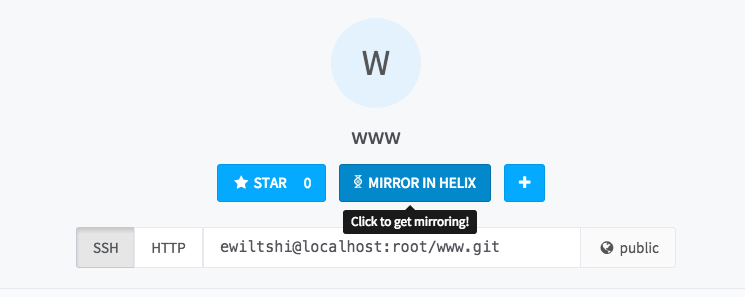
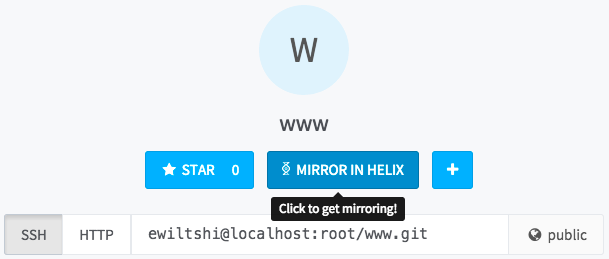
Integrating feedback and cropping screenshots.

Changed region(s): [[0.0, 0.4324, 0.78, 0.9884], [0.8112, 0.8031, 0.9672, 0.9266], [0.468, 0.1544, 0.5304, 0.2471]]

diff --git a/perforce_swarm/doc-ce/workflow/importing/import_from_gitfusion.md b/perforce_swarm/doc-ce/workflow/importing/import_from_gitfusion.md
@@ -25,9 +25,9 @@ GitSwarm project.
 * Install GitSwarm and Git Fusion on separate machines to improve
   performance and scalability. GitSwarm 2015.3+ installs with a local
   Helix Versioning Engine and a local Git Fusion server, all pre-configured
-  to allow you to easily try out the system. In production, we recommend disabling
-  the local Git Fusion, and using an external one. [Check out the docs on the
-  auto-provisioned Git Fusion](../../install/auto_provision.md))
+  to allow you to easily try out the system. In production, we recommend
+  disabling the local Git Fusion, and using an external one. [Check out the
+  docs on the auto-provisioned Git Fusion](../../install/auto_provision.md))
 
 * Use SSH or HTTPS connections to secure the mirroring connections.
   SSH connections are faster and more secure. We recommend against using
@@ -53,9 +53,9 @@ gitswarm['git-fusion']['development']['url']  = 'http://dev-gitfusion.host/'
 gitswarm['git-fusion']['production']['url']   = 'http://prod-gitfusion.host/'
 ```
 
-In the above example, the user `global-user` will be used to log in to the `development`
-and `production` Git Fusion servers. The user for the `local` Git Fusion server
-will remain as `gitswarm`.
+In the above example, the user `global-user` will be used to log in to the
+`development` and `production` Git Fusion servers. The user for the `local` Git
+Fusion server will remain as `gitswarm`.
 
 Note: Only `user`, `password`, `git_config_params`, `perforce['user']`,
 `perforce['password']` and `auto_create` settings can have global defaults.
@@ -79,8 +79,8 @@ gitswarm['git-fusion']['my_entry']['url']      = 'http://gitswarm@gitfusion.host
 gitswarm['git-fusion']['my_entry']['password'] = '<password for "gitswarm" user>'
     ```
 
-    Note: The user (e.g. `gitswarm`) needs to exist in the Helix Versioning Engine
-    that the Git Fusion service uses, and must have permission to access
+    Note: The user (e.g. `gitswarm`) needs to exist in the Helix Versioning
+    Engine that the Git Fusion service uses, and must have permission to access
     the repositories you wish to import from.
 
     Note: `my_entry` is an example key that is used to configure the connection
@@ -103,7 +103,8 @@ gitswarm['git-fusion']['other']['password']     = '<password for "other-user" us
 gitswarm['git-fusion']['my_entry']['git_config_params'] = 'http.sslVerify=false'
     ```
 
-    Note: the key 'my_entry' can be replaced with a unique value of your choosing.
+    Note: the key 'my_entry' can be replaced with a unique value of your
+    choosing.
 
 1.  **Make the configuration change active:**
 
@@ -194,6 +195,7 @@ Note: The `my_entry` key is used to assign config values to a particular
 git-fusion instance. You can include more configured servers under other
 keys.
 
+#### Auto-create Configuration
 GitSwarm generates a Git Fusion configuration and unique depot path
 for each new project that has convention-based mirroring enabled. It
 constructs these by substituting the GitSwarm project's namespace and
@@ -216,6 +218,7 @@ use the convention-based repository feature. GitSwarm does
 ### New GitSwarm Project with Convention-based Mirroring
 
 1.  Sign in to your GitSwarm instance and go to your dashboard.
+
 1.  Click "New Project".
 
 1.  Click the "Git Fusion Server" drop-down menu to select an available
@@ -242,8 +245,9 @@ use the convention-based repository feature. GitSwarm does
 1.  Click the "Helix Git Fusion Server" drop-down menu to select an available
     Git Fusion Server to import from.
 
-1.  Click the "Repository" drop-down menu under the "Mirror an existing repository"
-    option and select an available Git Fusion repository to import.
+1.  Click the "Repository" drop-down menu under the "Mirror an
+    existing repository" option and select an available Git Fusion repository to
+    import.
 
     ![Select repository to import](gitfusion_importer/choose_repo.png)
 
@@ -259,83 +263,103 @@ use the convention-based repository feature. GitSwarm does
 
 #### Requirements
 
-* You must have at least one Git Fusion entry configured for convention-based mirroring.
+* You must have at least one Git Fusion entry configured for convention-based
+  mirroring.
   See [this section](#convention-based-repository-configuration) for details.
 
-* Your GitSwarm user account must either be an admin account, or you must have master-level permissions for the project
-  on which you are attempting to enable mirroring.
+* Your GitSwarm user account must either be an admin account, or you must have
+  at least master-level permissions for the project on which you are attempting
+  to enable mirroring.
 
 * The project cannot already be mirrored in Git Fusion.
 
-* There must not be any content in Helix where the to-be mirrored project's will be stored. GitSwarm will check for this
-  before attempting to mirror the project.
+* There must not be any content in Helix where the to-be mirrored project's
+  files are to be stored. GitSwarm checks for this before attempting to mirror
+  the project.
 
-* There must not be a Git Fusion configuration file (p4gf_config) for the current namespace/project path combination.
-  GitSwarm will check for this before attempting to mirror the project.
+* There must not be a Git Fusion configuration file (```p4gf_config```) for the
+  current namespace/project path combination. GitSwarm checks for this
+  before attempting to mirror the project.
 
 #### How to Enable Mirroring on an Existing GitSwarm Project
 
-1.  Sign in to your GitSwarm instance as an admin or with master rights to the project for which you want to enable
-    mirroring.
+1.  **Sign in to your GitSwarm instance**
 
-1.  From the Dashboard, click "Your Projects" or "Explore Projects" and then click on the project you wish to mirror.
+    You must be an admin, or have at least master rights to the project for
+    which you want to enable mirroring.
 
-1.  Click the "Mirror in Helix" button on the project details page. If the button is greyed out, mousing over it
-    will give you a hint as to what is wrong and how to fix it.
+1.  **From the Dashboard, click "Your Projects" or "Explore Projects"**
+
+1.  **Click on the project you wish to mirror**
+
+1.  **Click the "Mirror in Helix" button on the project details page**
+
+    If the button is greyed out, mousing over it gives a hint as to what is
+    wrong and how to fix it.
 
     ![Mirror in Helix button](gitfusion_importer/mirror_in_helix_button.png)
 
-1.  On the "Mirror in Helix" page, you will need to select the Git Fusion server under which you would like to mirror
-    your project. All configured Git Fusion servers are selectable, but only servers that support convention-based
-    mirroring will show the "Launch Mirroring" button.
+1.  **Select the Git Fusion server to which you wish to mirror your project**
+
+    All configured Git Fusion servers are selectable, but only servers that
+    support convention-based mirroring enable the "Launch Mirroring" button.
 
     ![Mirror in Helix](gitfusion_importer/mirror_in_helix.png)
 
-    If you have selected a server for which there is a problem (e.g. that particular server does not have auto-create
-    enabled, or has an incorrect username/password), GitSwarm will report that this is the case, describe what the
-    problem is, and suggest how to fix it. For example:
+    If you have selected a server for which there is a problem (e.g. that
+    particular server does not have auto-create enabled, or has an incorrect
+    username/password), GitSwarm reports that this is the case, describes
+    what the problem is, and suggests how to fix it. For example:
 
     ![Mirror in Helix Issue](gitfusion_importer/mirror_in_helix_misconfigured.png)
 
-1.  Once you have selected an appropriately-configured Git Fusion repository, the "Launch Mirroring" button will
-    appear. Clicking this button will start the mirroring process. Assuming there are no configuration errors,
-    GitSwarm will attempt to:
+1.  **Clicking the "Launch Mirroring" button**
 
-    * Create an associated repository in Git Fusion.
+    This starts the mirroring process. Assuming there are no configuration
+    errors, GitSwarm attempts to:
+      * Create an associated repository in Git Fusion
+      * Mark the GitSwarm project as mirrored in Git Fusion
+      * Perform an initial push (backgrounded) of the GitSwarm project to Git
+        Fusion
 
-    * Mark the GitSwarm project as mirrored in Git Fusion.
-
-    * Perform an initial push (backgrounded) of the GitSwarm project to Git Fusion.
-
-1.  If any errors occur during the above process, GitSwarm will take you back to the Mirror in Helix page, and
-    report the error. See below for potential error messages, what they mean and how to fix them.
+    If any errors occur during the above process, GitSwarm takes you back to the
+    Mirror in Helix page, and report the error. See below for potential error
+    messages, what they mean and how to fix them.
 
 #### Error Messages
 
 * **GitSwarm's Helix Git Fusion integration is disabled.**
 
-  Getting this error message means that Git Fusion integration is currently disabled for your GitSwarm instance.
-  You will need to get an admin to [enable it](#configuration) for the Git Fusion servers against which you
-  wish to enable mirroring.
+  Getting this error message means that Git Fusion integration is currently
+  disabled for your GitSwarm instance. You will need to get an admin to
+  [enable it](#configuration) for the Git Fusion servers against which you wish
+  to enable mirroring.
 
-* **GitSwarm's Helix Git Fusion integration is enabled, however no Git Fusion instances have been configured.**
+* **GitSwarm's Helix Git Fusion integration is enabled, however no Git
+  Fusion instances have been configured.**
 
-  In order to mirror an existing GitSwarm project, you must not only have Git Fusion enabled, but you must have at
-  least one Git Fusion server instance configured. Please see [this section](#configuration) for instructions on
+  In order to mirror an existing GitSwarm project, you must not only have Git
+  Fusion enabled, but you must have at least one Git Fusion server instance
+  configured. Please see [this section](#configuration) for instructions on
   configuring a Git Fusion instance.
 
-* **None of the Helix Git Fusion instances GitSwarm knows about are configured for 'auto create'.**
+* **None of the Helix Git Fusion instances GitSwarm knows about are configured
+  for 'auto create'.**
 
-  When mirroring an existing GitSwarm project in Git Fusion, GitSwarm must be configured to be able to create a
-  Git Fusion repository definition. To do this, GitSwarm relies on the ```auto_create``` section of the Git Fusion
-  configuration. Please see [this section](#convention-based-repository-configuration) for instructions on configuring
+  When mirroring an existing GitSwarm project in Git Fusion, GitSwarm must be
+  configured to be able to create a Git Fusion repository definition. To do
+  this, GitSwarm relies on the ```auto_create``` section of the Git Fusion
+  configuration. Please see
+  [this section](#auto-create-configuration) for instructions on configuring
   auto create.
 
-* **GitSwarm is configured for Helix mirroring, but you lack permissions to enable it for this project.**
+* **GitSwarm is configured for Helix mirroring, but you lack permissions to
+  enable it for this project.**
 
-  Enabling mirroring on an existing GitSwarm project requires permissions to edit that project. This means your
-  GitSwarm user account will either need to be an administrator account, or you will need 'project master' permissions
-  for the project on which you wish to enable mirroring.
+  Enabling mirroring on an existing GitSwarm project requires permissions to
+  edit that project. This means your GitSwarm user account either needs to
+  be an administrator account, or at least master-level permissions for the
+  project on which you wish to enable mirroring.
 
 ### Known Issues
 
